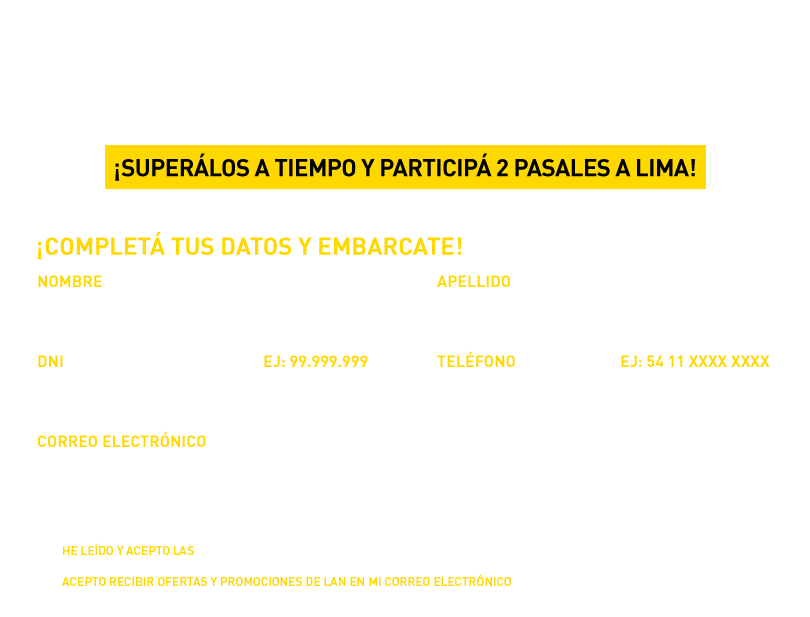
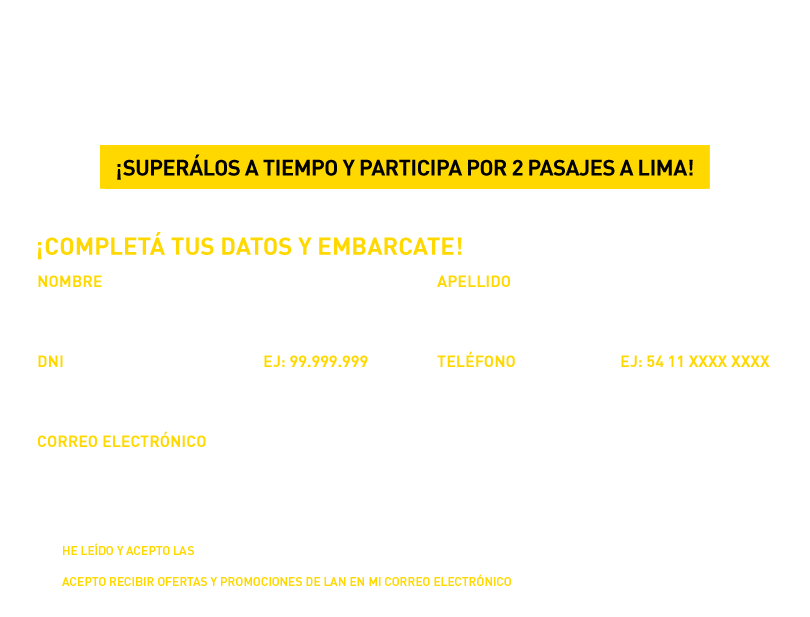
cambio background

Changed region(s): [[0.1235, 0.2464, 0.8951, 0.3079]]

diff --git a/app/controllers/fb_app_lan_cargo_ar_controller.rb b/app/controllers/fb_app_lan_cargo_ar_controller.rb
@@ -133,7 +133,7 @@ class FbAppLanCargoArController < ApplicationController
           :name => "Cargas Imposibles de Nat Geo y LAN CARGO",
           :link => "http://www.facebook.com/LANenArgentina/app_182105771955231",
           :caption => "Cargas Imposibles de Nat Geo y LAN CARGO",
-          :description => "¡Ya jugué en la Trivia Cargas Imposible y estoy concursando por 2 pasajes a Lima! ¡Participa tu también AQUÍ!",
+          :description => "¡Ya jugué en la Trivia Cargas Imposible y estoy concursando por 2 pasajes a Lima! ¡Participá tú también AQUÍ!",
           :picture => "http://wolly.herokuapp.com/assets/fb_app_lan_cargo_ar/75x75.jpg"
       }, @me_from_graph[:id])
     rescue
@@ -155,13 +155,13 @@ class FbAppLanCargoArController < ApplicationController
       end
     end
     @app.share_caption = "http://www.facebook.com/LANenArgentina/app_182105771955231"
-    @app.share_description = "¡Estoy jugando en la Trivia Cargas Imposible de Nat Geo y LAN CARGO para participar por 2 pasajes a Lima, Perú! ¡Concursa tú también AQUÍ!"
+    @app.share_description = "¡Estoy jugando en la Trivia Cargas Imposible de Nat Geo y LAN CARGO para participar por 2 pasajes a Lima, Perú! ¡Concursá tú también AQUÍ!"
     begin
       @graph.put_wall_post("", {
           :name => "Cargas Imposibles de Nat Geo y LAN CARGO",
           :link => "http://www.facebook.com/LANenArgentina/app_182105771955231",
           :caption => "Cargas Imposibles de Nat Geo y LAN CARGO",
-          :description => "¡Estoy jugando en la Trivia Cargas Imposible de Nat Geo y LAN CARGO para participar por 2 pasajes a Lima, Perú! ¡Concursa tú también AQUÍ!",
+          :description => "¡Estoy jugando en la Trivia Cargas Imposible de Nat Geo y LAN CARGO para participar por 2 pasajes a Lima, Perú! ¡Concursá tú también AQUÍ!",
           :picture => "http://wolly.herokuapp.com/assets/fb_app_lan_cargo_ar/75x75.jpg"
       }, @me_from_graph[:id])
     rescue
